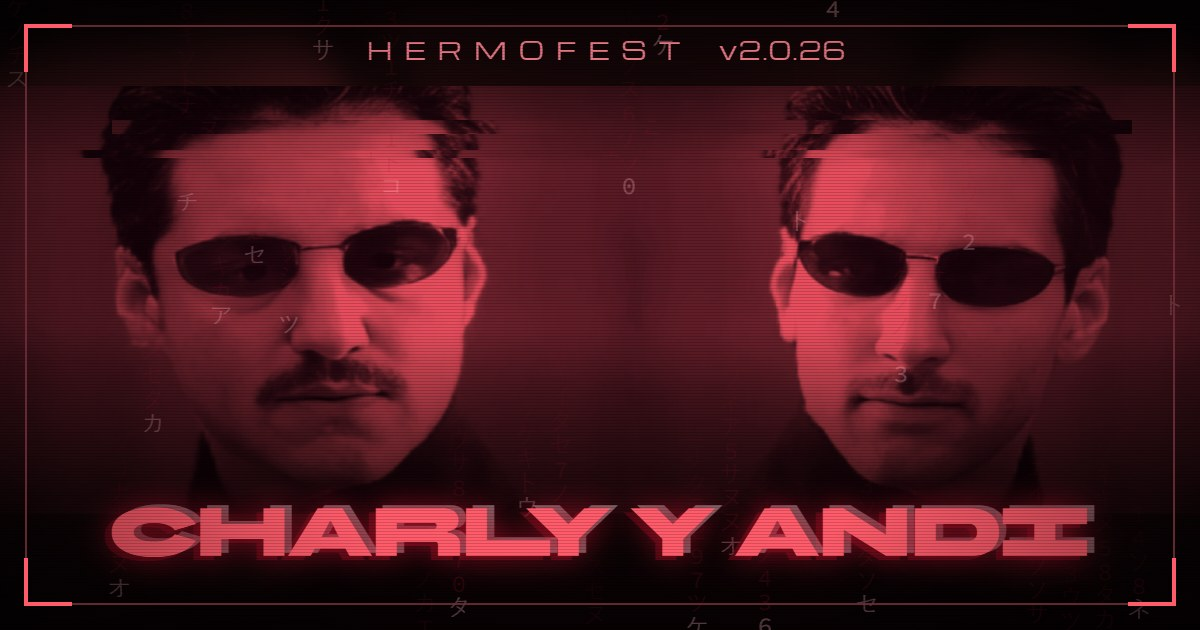
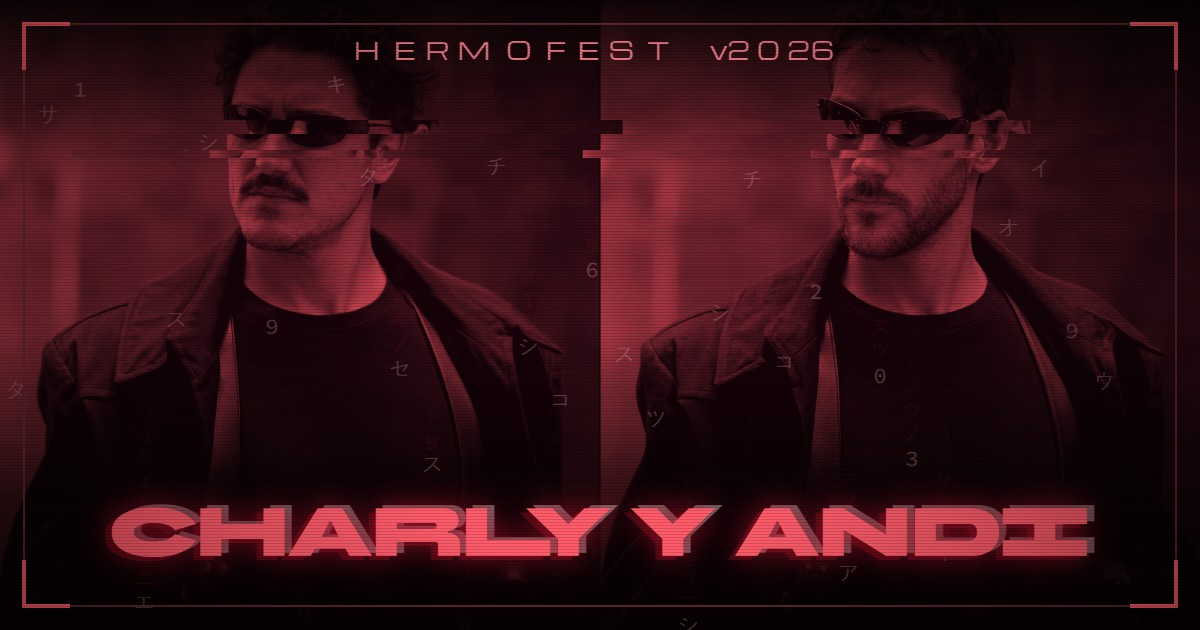
Flyer y preview de WhatsApp con las dos fotos nuevas (retratos 6 y 7) en duotono rojo; og v5

diff --git a/acceso/index.html b/acceso/index.html
@@ -10,7 +10,7 @@
 <meta property="og:title" content="HERMOFEST v2.0.26">
 <meta property="og:description" content="Accede y ganá tu entrada">
 <meta property="og:url" content="https://andreslanzi.github.io/hermofest/acceso/">
-<meta property="og:image" content="https://andreslanzi.github.io/hermofest/acceso/og.jpg?v=4">
+<meta property="og:image" content="https://andreslanzi.github.io/hermofest/acceso/og.jpg?v=5">
 <meta property="og:image:type" content="image/jpeg">
 <meta property="og:image:width" content="1200">
 <meta property="og:image:height" content="630">

diff --git a/index.html b/index.html
@@ -6,7 +6,7 @@
 <meta property="og:title" content="HERMOFEST">
 <meta property="og:description" content="Desde el sótano.">
 <meta property="og:url" content="https://andreslanzi.github.io/hermofest/">
-<meta property="og:image" content="https://andreslanzi.github.io/hermofest/acceso/og.jpg?v=4">
+<meta property="og:image" content="https://andreslanzi.github.io/hermofest/acceso/og.jpg?v=5">
 <meta property="og:image:type" content="image/jpeg">
 <meta property="og:image:width" content="1200">
 <meta property="og:image:height" content="630">
